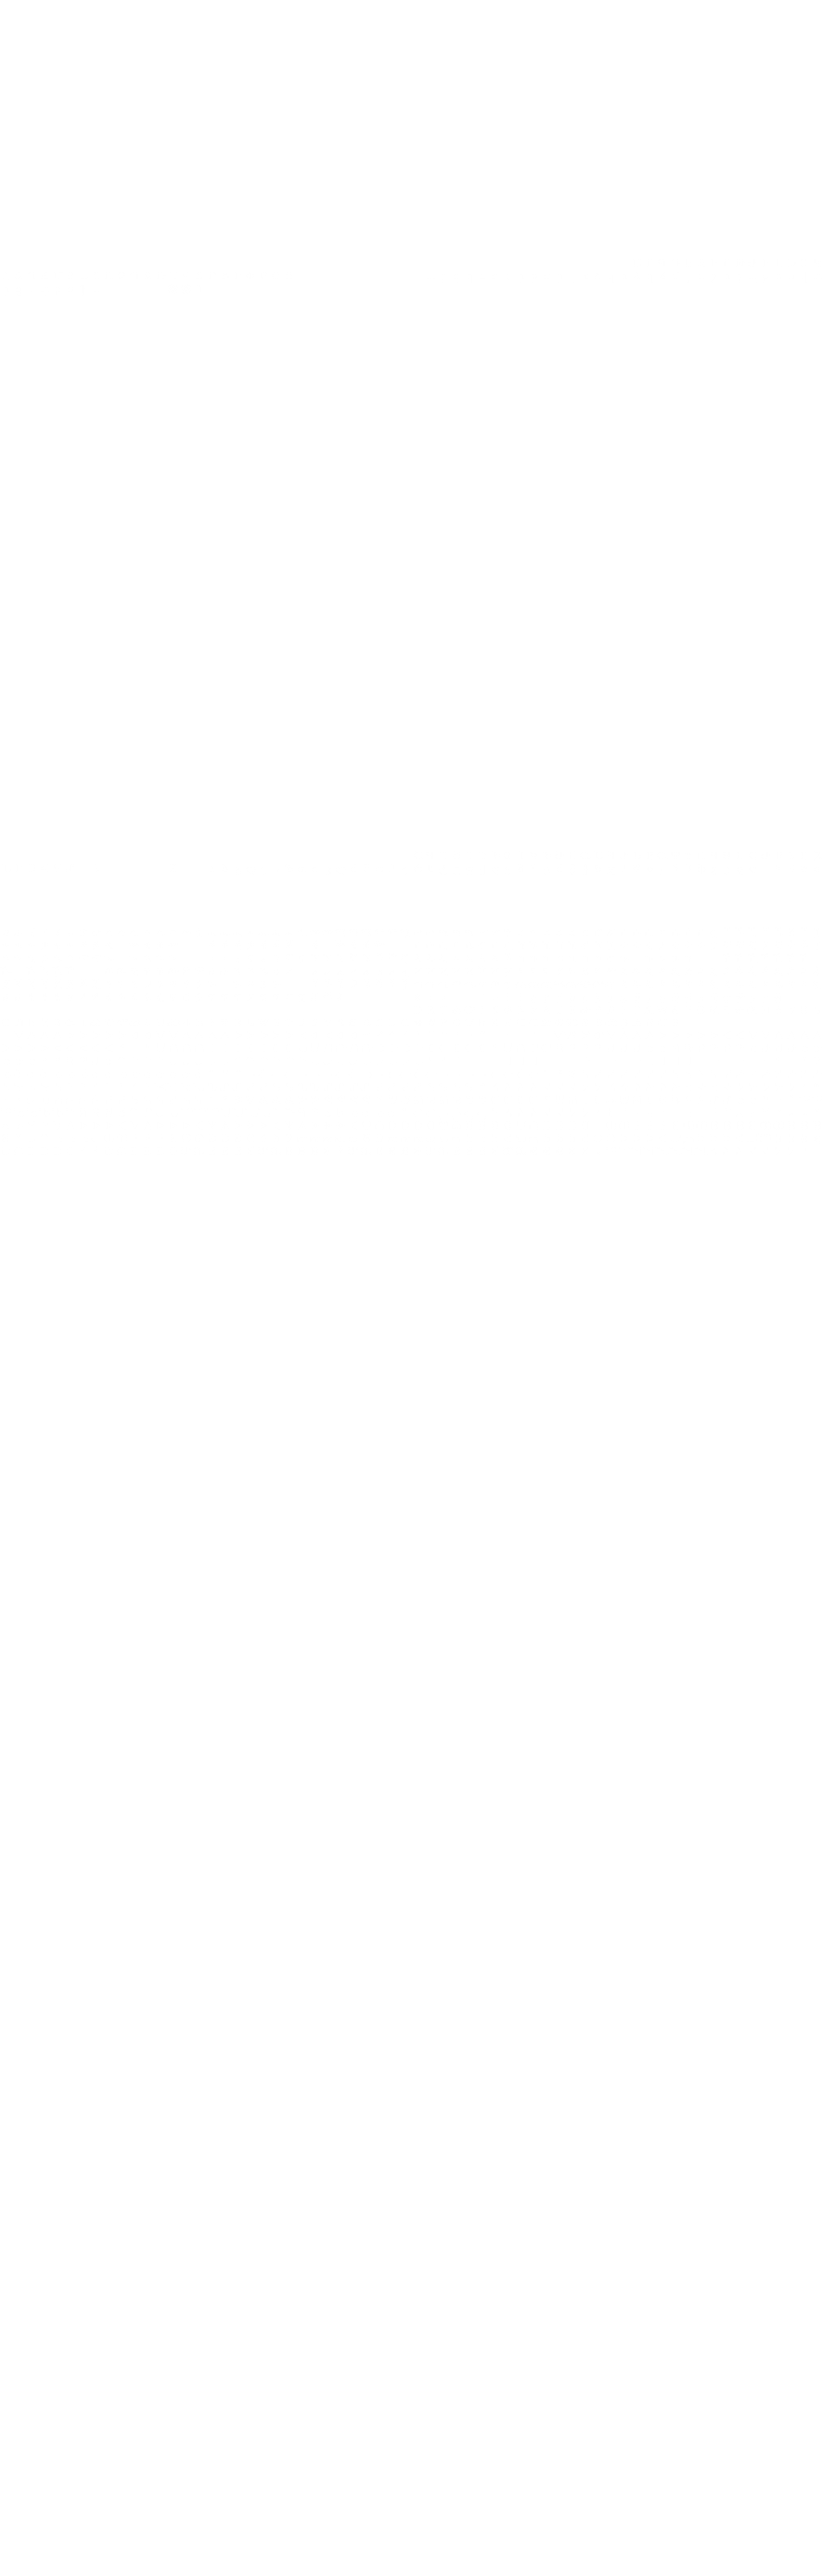
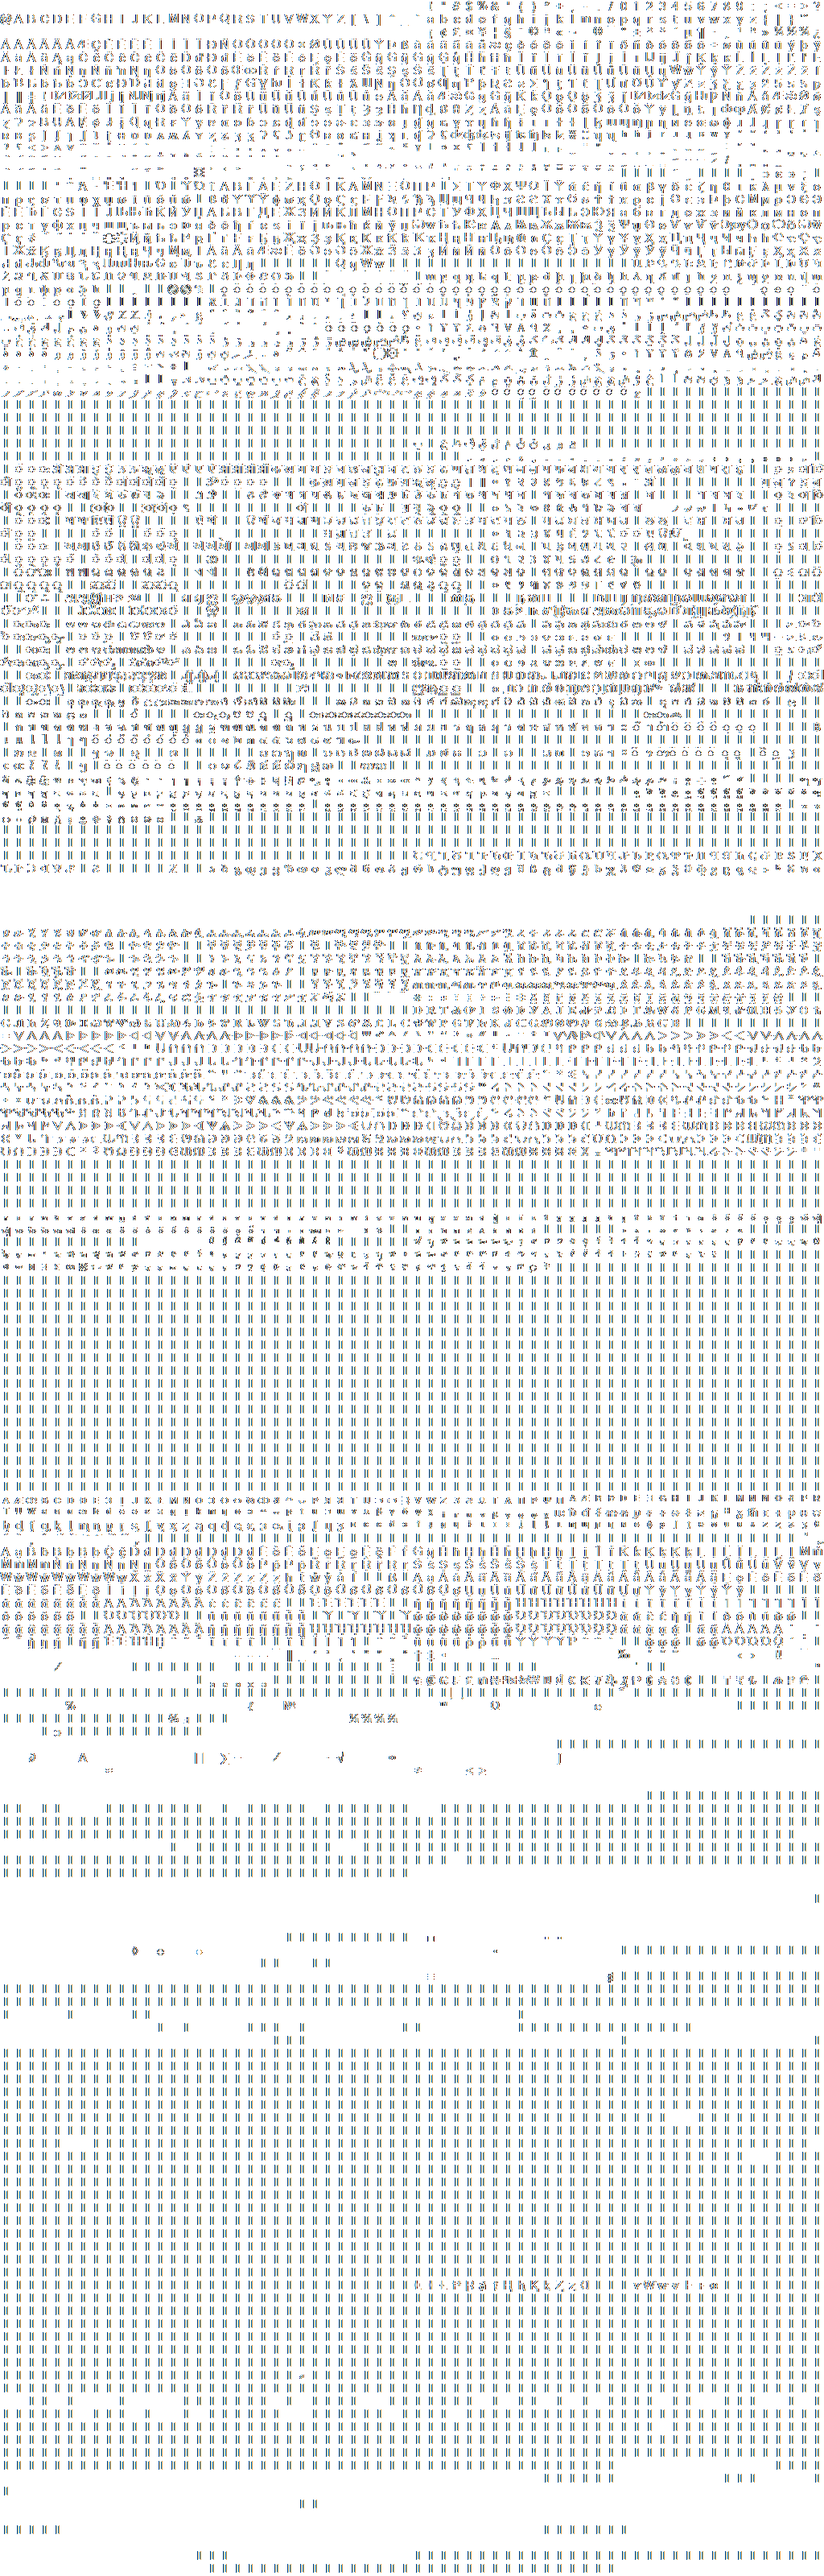
fixed antialiasing settings

diff --git a/TileMaker/Program.cs b/TileMaker/Program.cs
@@ -62,7 +62,7 @@ namespace ResourcesTest
 				gChar.SmoothingMode = SmoothingMode.HighQuality;
 				gChar.InterpolationMode = InterpolationMode.HighQualityBicubic;
 				gChar.PixelOffsetMode = PixelOffsetMode.HighQuality;
-				gChar.TextRenderingHint = TextRenderingHint.AntiAliasGridFit;
+				gChar.TextRenderingHint = TextRenderingHint.ClearTypeGridFit;
 
 				// try to center the character in the rectangle
 				StringFormat stringFormat = new StringFormat
